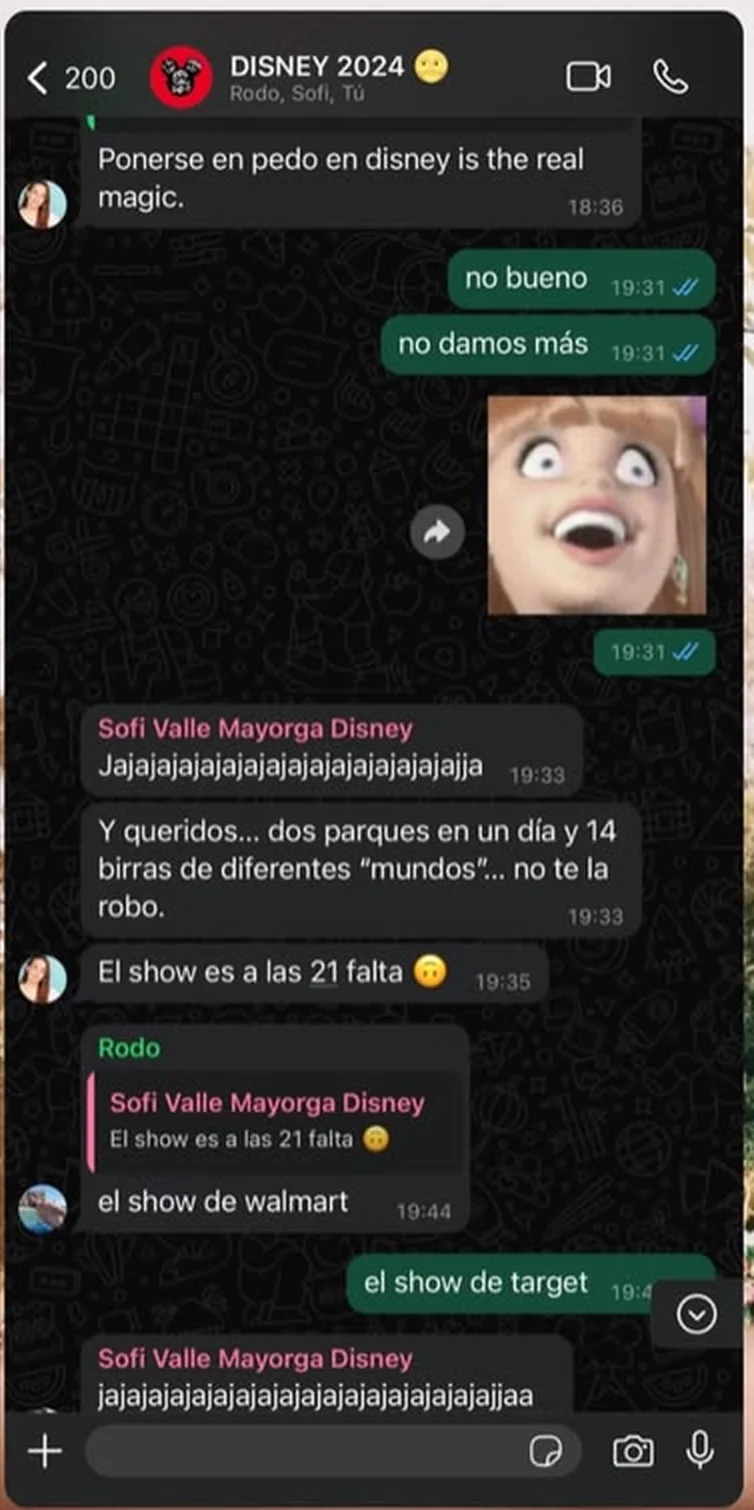
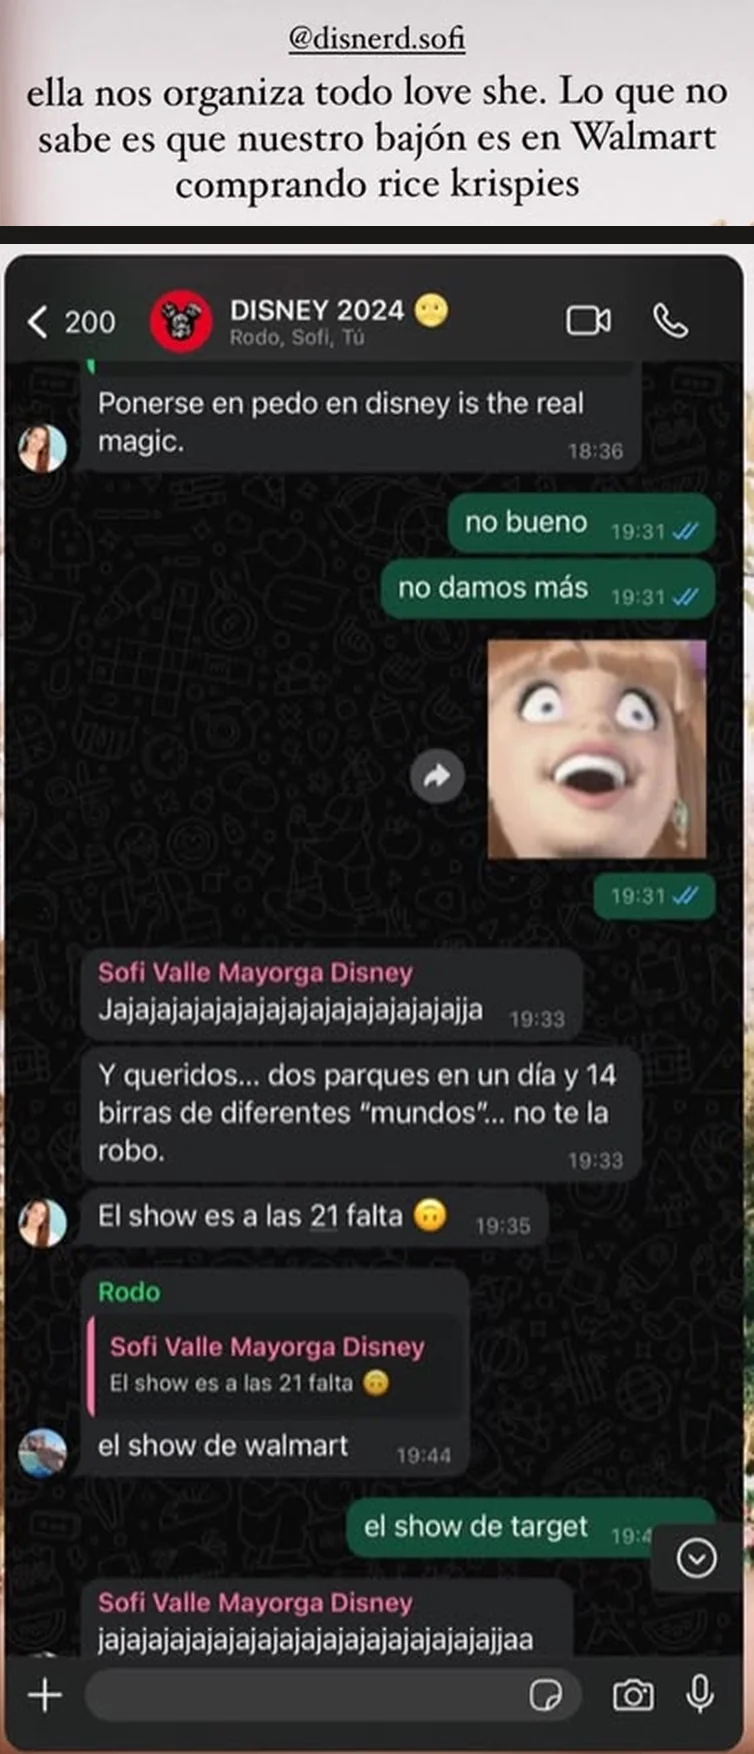
La lupa de Tupi incluye lo que ella escribio arriba del chat
Fer: "que el zoom en esa charla con tupi incluya tmb lo que ella escribio
arriba del chat en la historia q compartio".

La imagen que abre la lupa ahora son dos partes de su historia, recortadas y
ampliadas por separado y apiladas: arriba "@disnerd.sofi / ella nos organiza
todo love she...", abajo la conversacion. Cada una se amplia lo suyo, asi que
las dos se leen; un recorte unico que abarcara ambas habria dejado el chat a
escala 0,51 y de vuelta ilegible.

Entra entera en la pantalla de un celular: 342x796 en uno de 390x844.

diff --git a/_tools/tarjetas_resenas.py b/_tools/tarjetas_resenas.py
@@ -38,17 +38,32 @@ for nombre, pos in ELEGIDAS.items():
     destino = R / ("tarjeta-%s.webp" % nombre)
     cuad.resize((LADO, LADO), Image.LANCZOS).save(destino, "WEBP", quality=82, method=6)
     print("  tarjeta-%-9s %-20s %4.0f KB" % (nombre, nota, destino.stat().st_size / 1024))
-
 # ── La lupa de la historia de Tupi ──
 # Su captura es una historia de 900x1600 con el chat adentro: en un celular
 # entra a 342 px de ancho, o sea a escala 0,38, y la conversacion no se lee.
-# Asi que al agrandarla no se abre la historia entera sino la conversacion
-# sola, que a esa misma pantalla entra casi a tamanio real.
-CHAT = (263, 420, 640, 1175)
+# Asi que al agrandarla no se abre la historia entera: se arma una imagen con
+# lo que ella escribio y, debajo, la conversacion, cada parte recortada y
+# ampliada. En el mismo celular el chat entra casi a tamanio real.
+TEXTO = (225, 285, 675, 420)     # "@disnerd.sofi / ella nos organiza todo..."
+CHAT = (263, 420, 640, 1175)     # la conversacion
+ANCHO = 754                      # el doble del ancho del chat, para que se vea nitido
+AIRE = 18                        # separacion, del color del fondo de la lupa
+FONDO = (26, 24, 22)
+
 im = Image.open(R / "resena-tupi-charla.jpg").convert("RGB")
-c = im.crop(CHAT)
+partes = []
+for caja in (TEXTO, CHAT):
+    p = im.crop(caja)
+    partes.append(p.resize((ANCHO, round(p.height * ANCHO / p.width)), Image.LANCZOS))
+
+alto = sum(p.height for p in partes) + AIRE
+hoja = Image.new("RGB", (ANCHO, alto), FONDO)
+y = 0
+for p in partes:
+    hoja.paste(p, (0, y))
+    y += p.height + AIRE
+
 destino = R / "lupa-tupi-charla.webp"
-c.resize((c.width * 2, c.height * 2), Image.LANCZOS).save(
-    destino, "WEBP", quality=85, method=6)
-print("  lupa-tupi-charla  la conversacion sola, %dx%d  %3.0f KB"
-      % (c.width * 2, c.height * 2, destino.stat().st_size / 1024))
+hoja.save(destino, "WEBP", quality=85, method=6)
+print("  lupa-tupi-charla  lo que escribio + la conversacion, %dx%d  %3.0f KB"
+      % (ANCHO, alto, destino.stat().st_size / 1024))
